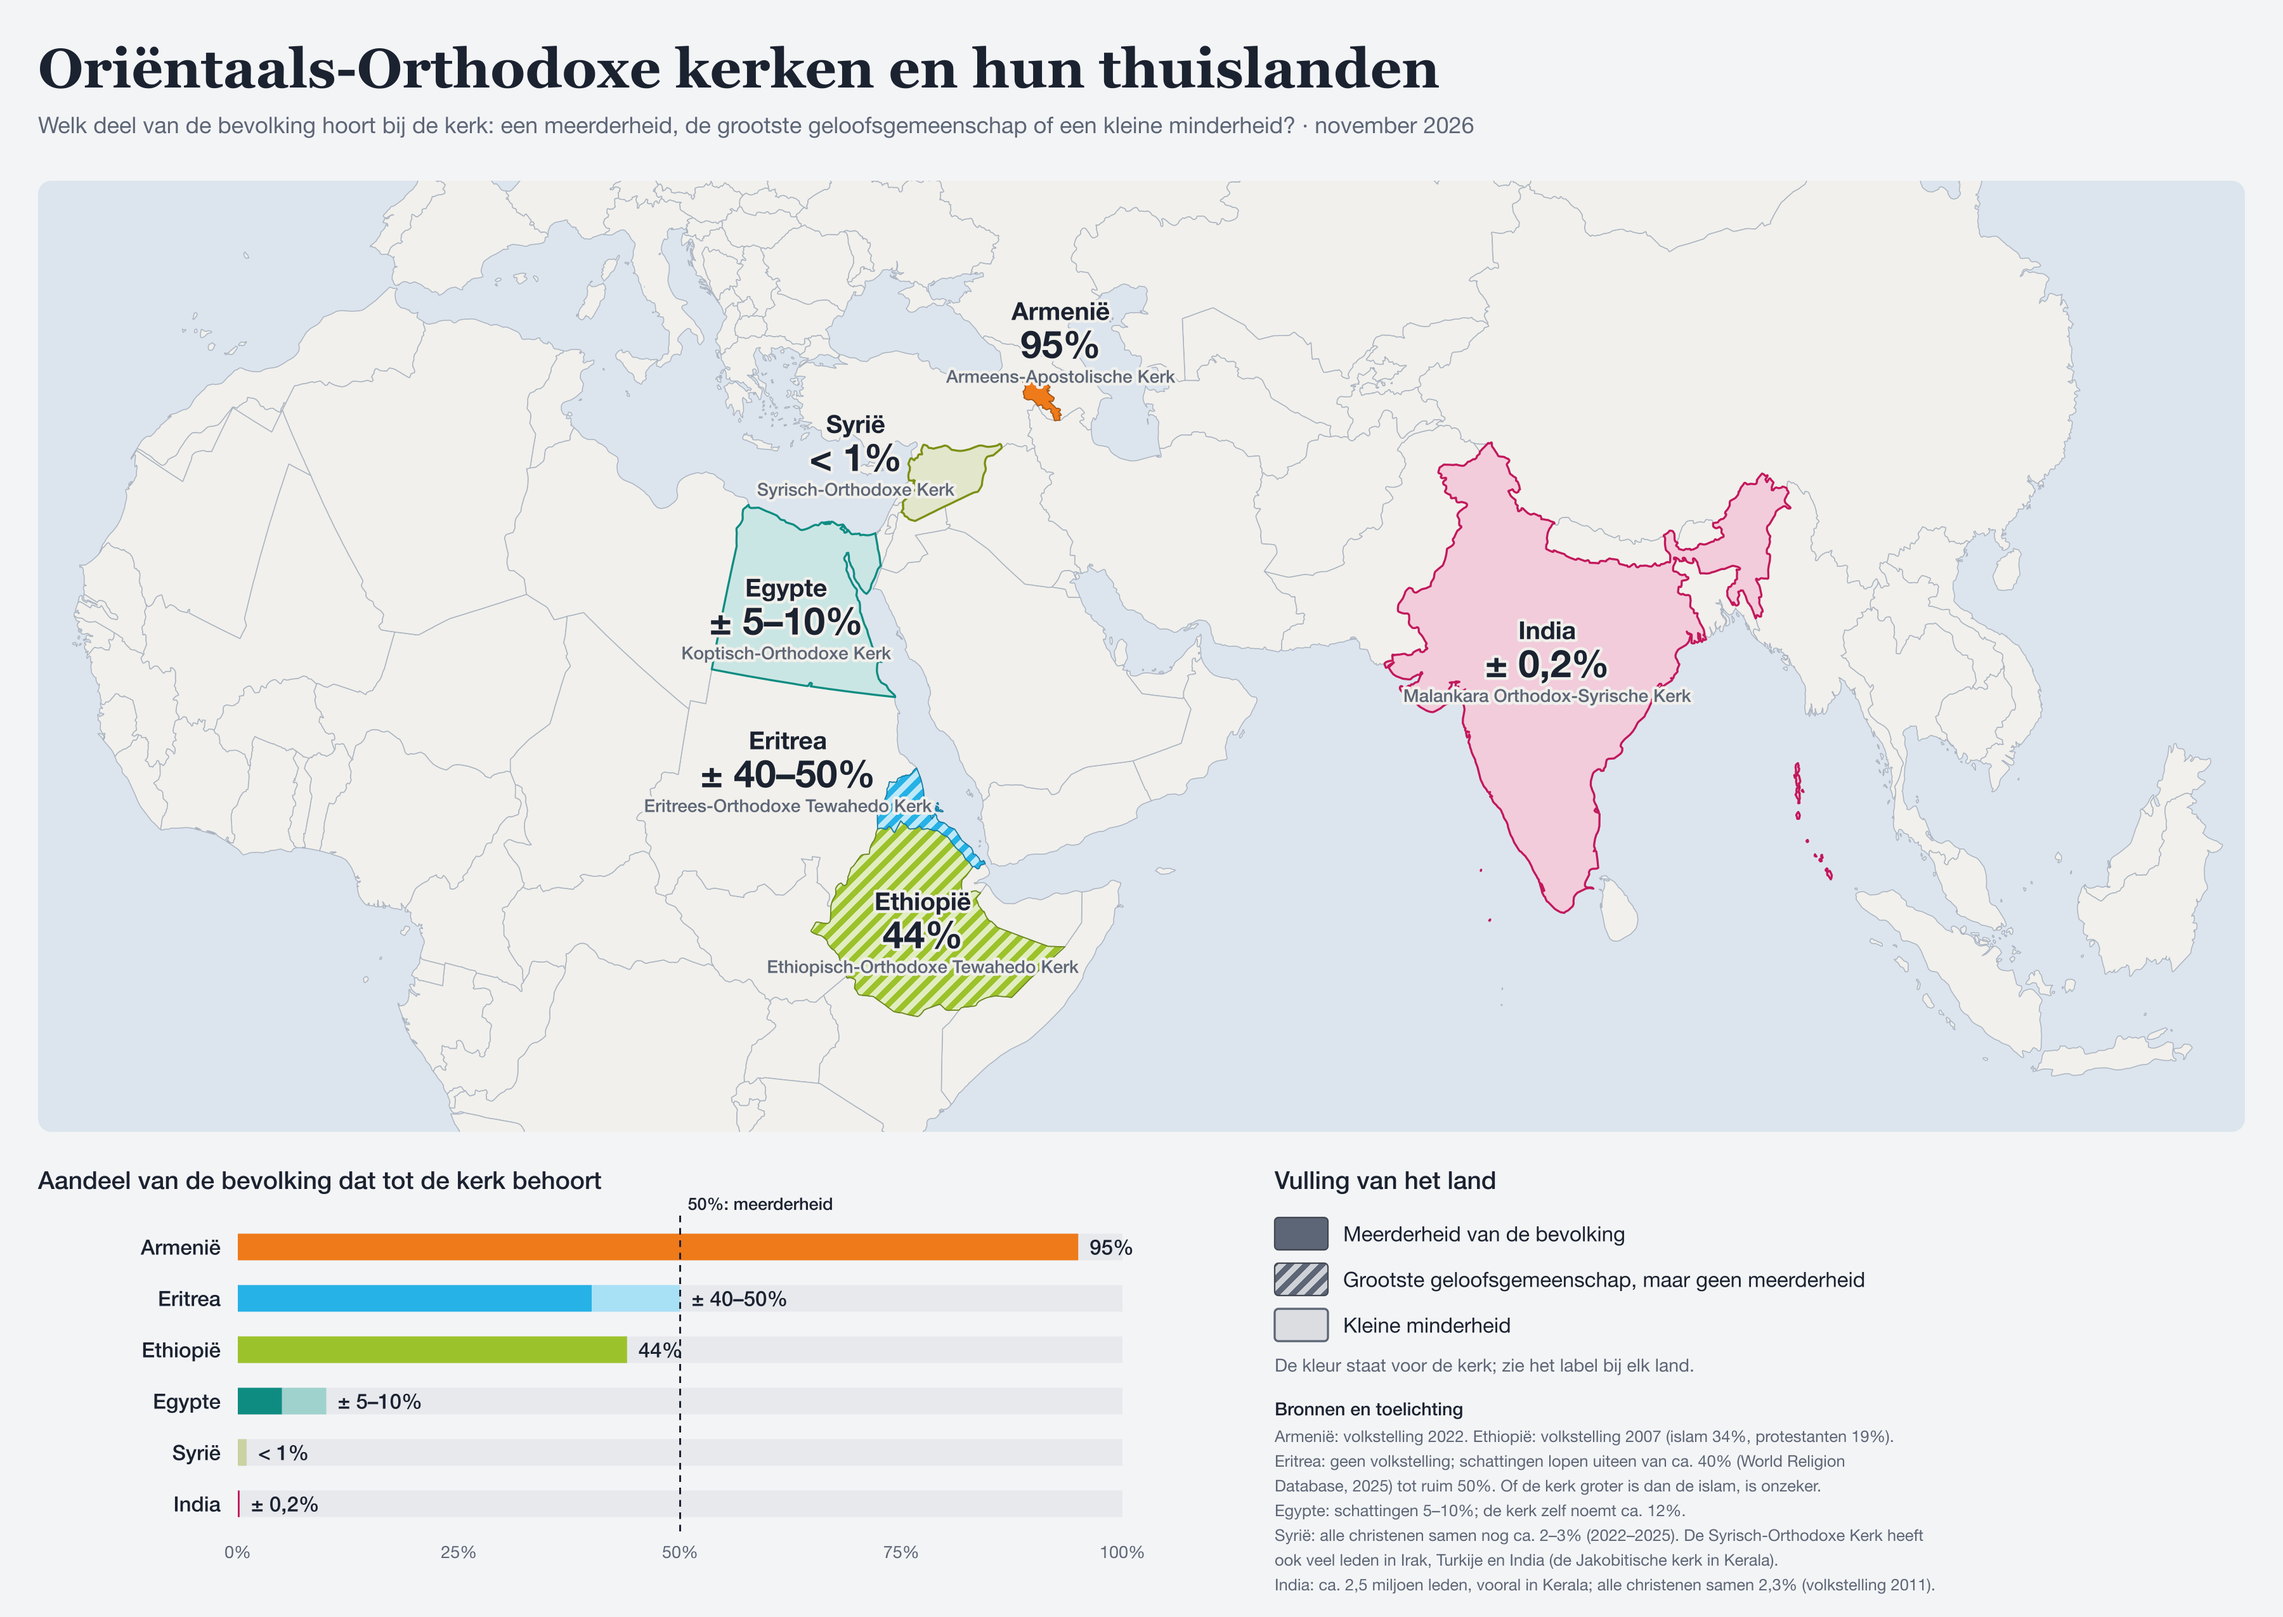
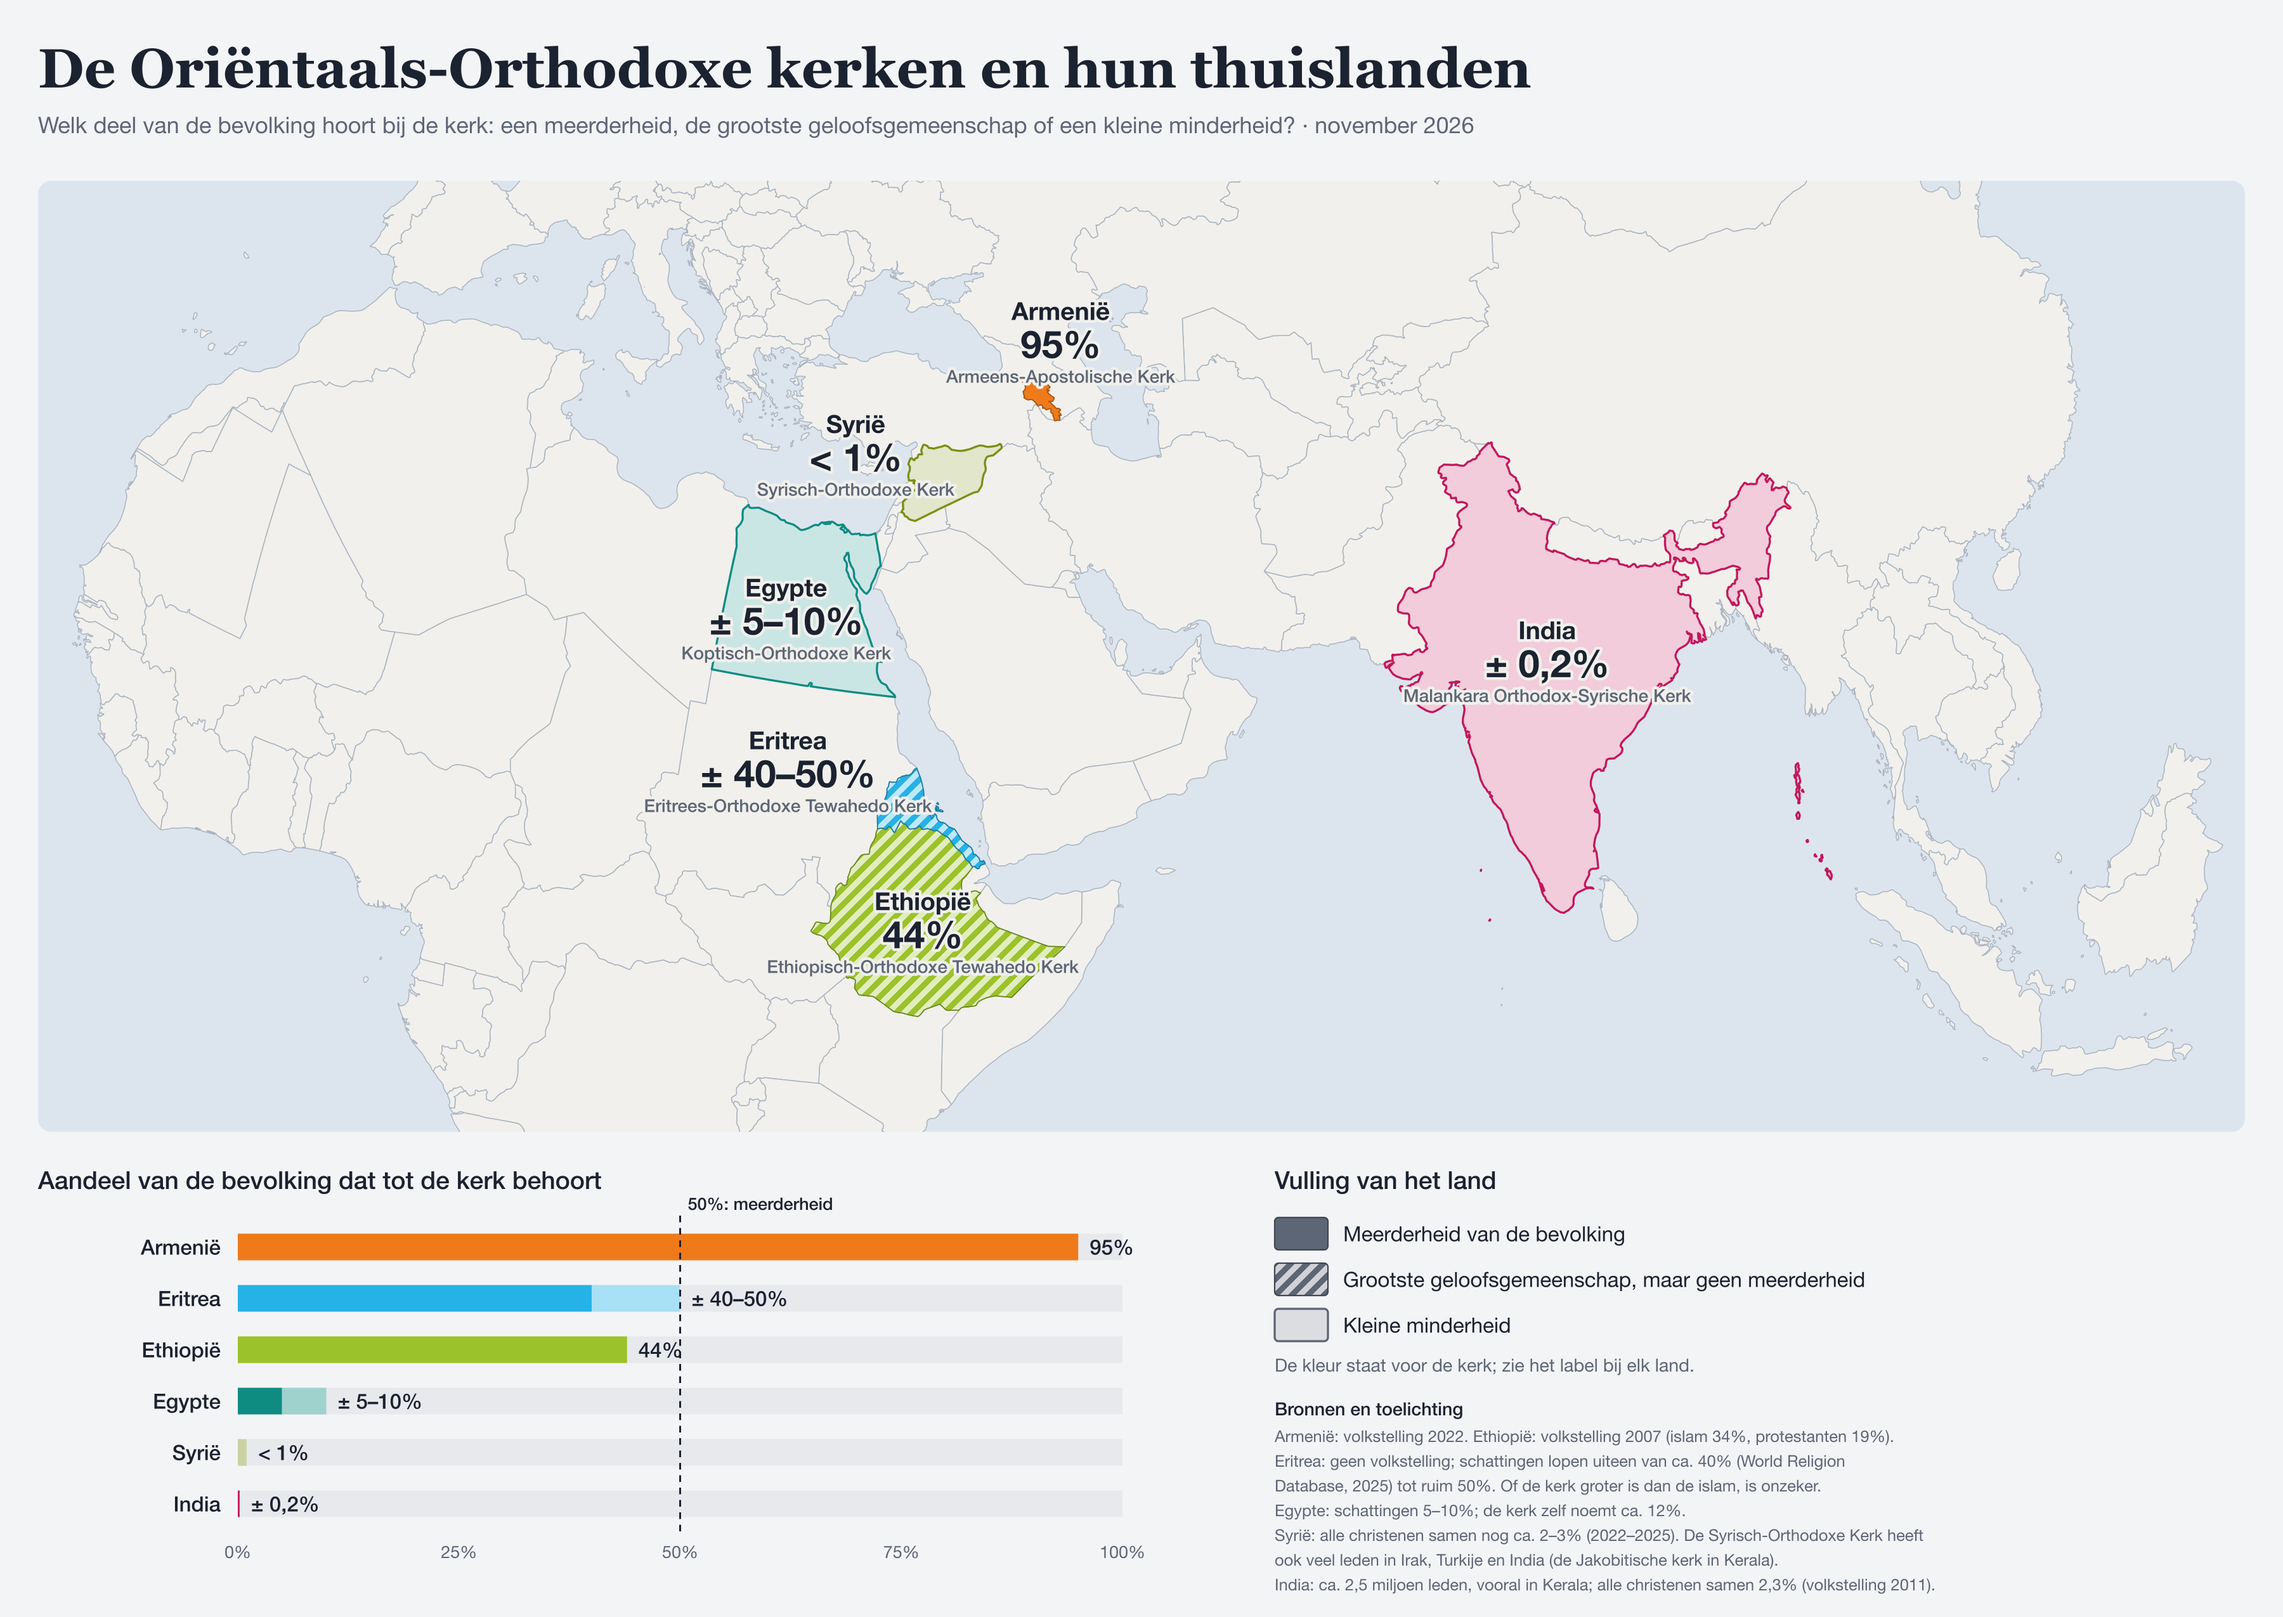
Oriental Orthodox map: restore "De" in the title

Changed region(s): [[0.0, 0.031, 0.6844, 0.062]]

diff --git a/build_oriental.py b/build_oriental.py
@@ -47,7 +47,7 @@ CATEGORIES = {
     "minderheid": "Kleine minderheid",
 }
 TEXT = {
-    "title": "Oriëntaals-Orthodoxe kerken en hun thuislanden",
+    "title": "De Oriëntaals-Orthodoxe kerken en hun thuislanden",
     "subtitle": "Welk deel van de bevolking hoort bij de kerk: een meerderheid, de grootste geloofsgemeenschap "
                 "of een kleine minderheid? · {updated}",
     "chart": "Aandeel van de bevolking dat tot de kerk behoort",

diff --git a/README.md b/README.md
@@ -218,7 +218,7 @@ The first version of the map had only 3 Eritrean churches, and the Hoogkerk chur
 
 ## Second map: the Oriental Orthodox home countries
 
-![Oriëntaals-Orthodoxe kerken en hun thuislanden](oriental-orthodox-nl.png)
+![De Oriëntaals-Orthodoxe kerken en hun thuislanden](oriental-orthodox-nl.png)
 
 A Dutch-language map of the six Oriental Orthodox churches and their home countries, built with `python3 build_oriental.py` (PNG and PDF; `--no-pdf` and `--svg DIR` work as for the main map).
 
